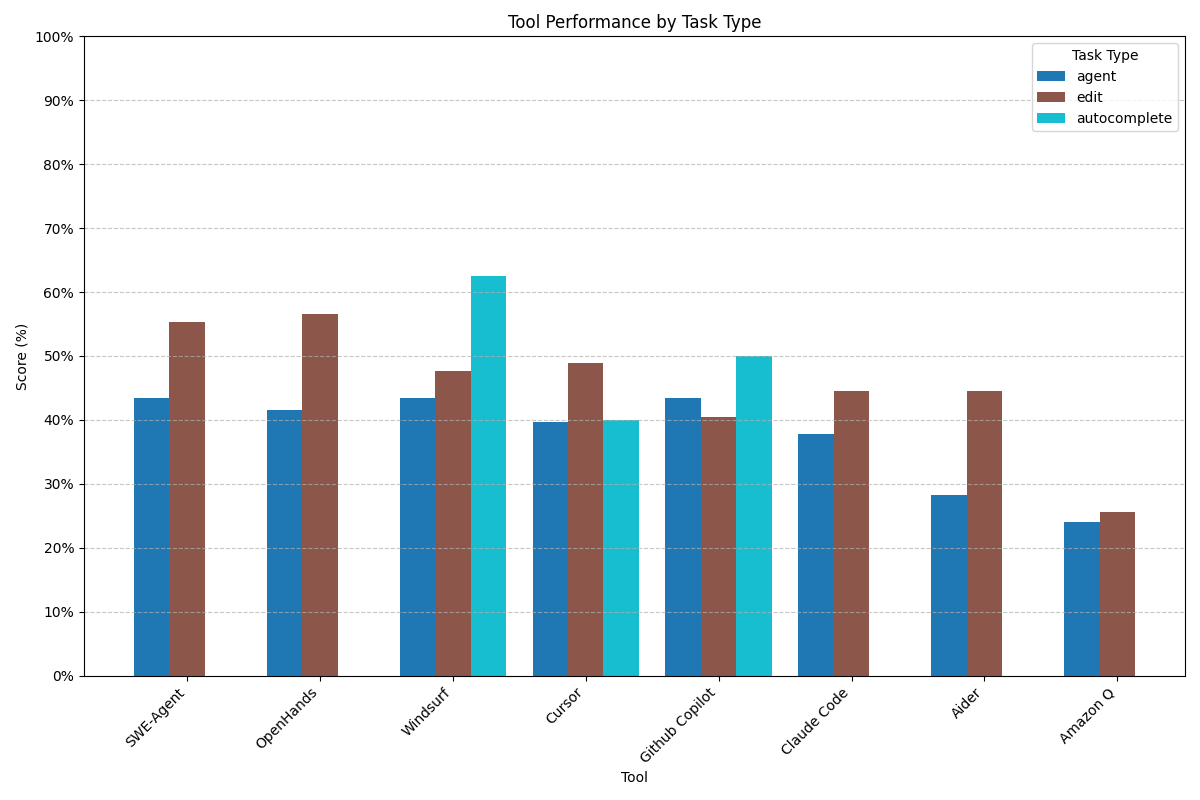
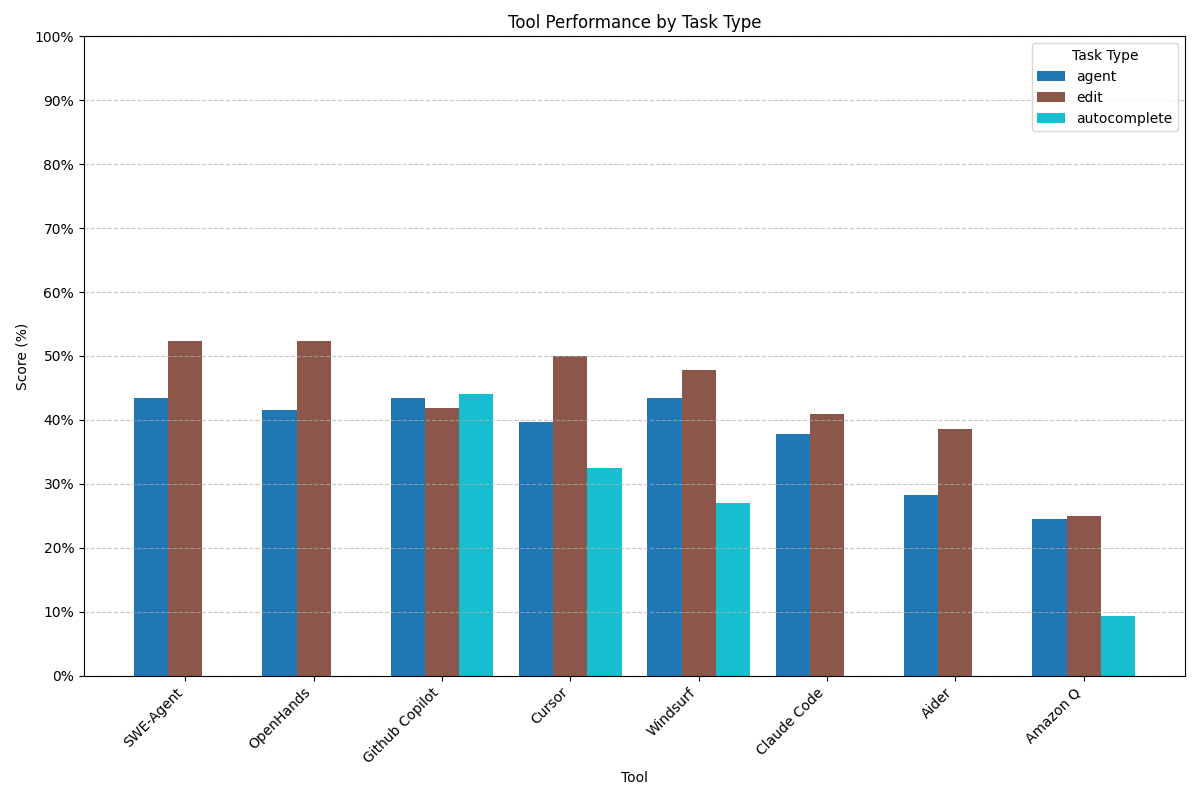
updates

diff --git a/src/pages/Leaderboard.tsx b/src/pages/Leaderboard.tsx
@@ -1,6 +1,6 @@
-import agentCsvData from '../assets/agent.csv?raw';
-import editCsvData from '../assets/edit.csv?raw';
-import autocompleteCsvData from '../assets/autocomplete.csv?raw';
+import agentCsvData from '../assets/agent_results.csv?raw';
+import editCsvData from '../assets/edit_results.csv?raw';
+import autocompleteCsvData from '../assets/autocomplete_results.csv?raw';
 import LeaderboardTable from '../components/LeaderboardTable';
 import { useState } from 'react';
 

diff --git a/src/assets/Report.md b/src/assets/Report.md
@@ -106,7 +106,7 @@ While the underlying LM may remain the same, many frameworks have emerged for de
 
 </figure>
 
-[Table 1](#ai-coding-assistants) shows a sample of popular AI coding assistants and highlights which features each provides as well as its mode of operation (IDE or command-line interface (CLI)). In general, command-line tools offer only fully agentic modes, while IDE-integration enables code autocomplete. More limited editing modes tend to be a stepping-stone to the development of fully agentic modes; for instance popular applications such as Cursor and Windsurf, which first developed the RAG-enabled edit modes, now default to their fully agentic modes. Because of this, and to ensure fairness when comparing to pure agent tools, we opted to use agent modes for evaluation of the targeted edits task.
+[Table 1](#ai-coding-assistants) shows a sample of popular AI coding assistants and highlights which features each provides as well as its mode of operation (Integrated development environment (IDE) or command-line interface (CLI)). In general, command-line tools offer only fully agentic modes, while IDE-integration enables code autocomplete. More limited editing modes tend to be a stepping-stone to the development of fully agentic modes; for instance popular applications such as Cursor and Windsurf, which first developed the RAG-enabled edit modes, now default to their fully agentic modes. Because of this, and to ensure fairness when comparing to pure agent tools, we opted to use agent modes for evaluation of the targeted edits task.
 ## AI Benchmarking
 A variety of evaluations have been developed to evaluate language models both on general-purpose capabilities and specifically on code generation ability. Benchmarks exist to evaluate LMs on reasoning, language understanding, math skills, and instruction following using diverse sets of tasks. For AI agents specifically, benchmarks have been developed to evaluate tool use capabilities and computer control.
 More specific benchmarks also exist for LM code generation. [HumanEval](https://arxiv.org/abs/2107.03374) and [LiveCodeBench](https://arxiv.org/abs/2403.07974) have become standard evaluations for isolated code generation tasks. [Aider's polyglot benchmark](https://aider.chat/docs/leaderboards/) evaluates code-writing ability in multiple programming languages. SWE-Bench is the current standard evaluation for code writing in large, real-world repositories using agentic functionality. However, no existing benchmark evaluates AI coding assistants at varying levels of developing involvement in a variety of language and framework environments. In addition, no major benchmarks exist for AI autocomplete tools. LiveSWEBench therefore greatly extends the scope of evaluation compared to existing benchmarks and provides a more comprehensive view of agents' capabilities.
@@ -358,18 +358,31 @@ In some cases, autocomplete models get stuck in loops of generating the same sug
 ### Tool Notes
 Tools were generally setup and evaluated using default settings, with "agent" mode selected in chat where appropriate. Aside from Amazon Q, which does not allow users to choose the model to be used, all tools were evaluated with Claude 3.7 Sonnet as the LM backend. This consistency ensures that LiveSWEBench is a valid evaluation of the actual agentic scaffolding, rather than the underlying LM itself. The model was selected as the highest-performing model with broad support among agent tools.
 
-Github Copilot was evaluated using a pre-release build in Visual Studio Code - Insiders, to enable the agent functionality.
+Github Copilot was evaluated using a pre-release build in Visual Studio Code - Insiders, to enable the agent functionality. The autocomplete model was left as the default; in the future, we may re-evaluate this task using the newer GPT-4O autocomplete preview.
 
 Agent and edit task patches were collected for all tools as of March 14th, 2025. Autocomplete evaluation was performed during the week of March 17th, 2025.
 # Results and Discussion
 <figure id="full_results_graph" className="flex flex-col items-center m-0 w-full">
-<img src="/full_graph.png" alt="Resolution scores by tool and task type" width="100%" height="100%" className="object-contain lg:w-1/2 xxl:w-1/3"/>
-<figcaption>Figure 1: A graph of resolution scores for each evaluated tool, split among the three task types</figcaption>
+	<img src="/full_graph.png" alt="Resolution scores by tool and task type" width="100%" height="100%" className="object-contain lg:w-1/2 xxl:w-1/3"/>
+	<figcaption>Figure 1: A graph of resolution scores for each evaluated tool, split among the three task types</figcaption>
 </figure>
+<div id="results_container" className="flex flex-col lg:flex-row gap-3 justify-center items-center w-full">
+<figure id="score_by_repo" className="flex flex-col items-center m-0 w-full">
+	<img src="/radar.png" alt="Task resolution rates by repository" width="100%" height="100%" className="object-contain"/>
+	<figcaption>Figure 2: A radar chart of task resolution rates by repository. Task types are overlaid on top of each other.</figcaption>
+</figure>
+</div>
 
-[Figure 1](#full_results_graph) shows task resolution rates for each evaluated tool, split among the three task types. We see that the top several scores on the agent task are quite similar, within a few percent of each other. The edit task is almost universally easier. Finally, the autocomplete task is even easier still, for the tools with autocomplete capabilities. This gradient is unsurprising, as the edit and autocomplete tasks are much more constrained in scope than the agent task, with detailed, direct prompts of what must be done to resolve the issue and changes made only to a single file or lines of code at a time. Overall, we can conclude that SWE-Agent and OpenHands are currently the most capable agent frameworks, with Windsurf and Cursor not far behind.
+[Figure 1](#full_results_graph) shows task resolution rates for each evaluated tool, split among the three task types. We see that the top several scores on the agent task are quite similar, within a few percent of each other. The edit task is almost universally easier. This gradient is unsurprising, as the edit task is much more constrained in scope than the agent task, with detailed, direct prompts of what must be done to resolve the issue and changes made only to a single file or lines of code at a time. Overall, we can conclude that SWE-Agent and OpenHands are currently the most capable agent frameworks, with Windsurf and Cursor not far behind. Aider has the worst performance on the agent task of all tools evaluated with Claude 3.7 Sonnet as the model, but makes up partially for this with its edit task performance. Amazon Q lags behind all other tools, which may in large part be due to its underlying model being less capable.
 
-What is interesting is the fact that the degree of improvement between the agent and edit tasks is not consistent among the tools. While the top six agent scores are within a few percent of each other, the edit task results had greater variance. The general equality among assistants for the agent task is likely attributable to the same model being used and (in general) the same tools being provided as part of the agent framework, e.g. read file, edit file, search directory, run bash command. When given complete autonomy and a detailed, high-level description of the task, it seems the raw model intelligence may be the most important factor. Since the agent task provides no hints as to where changes need to be made, exploration of the codebase is also a given. The edit task's specification of the file to be edited may appear to make this task much easier, but the changes needed may still depend on context from other files. It's likely that the agents who saw less improvement between the agent and edit tasks were less likely to still explore the codebase when prompted with the specific edit file; in contrast, Aider, which always automatically explores to generate a repository map at the beginning of execution, saw the greatest improvement of all between the agent and edit tasks. The edit task also does not directly inform the agent of recent changes made to the codebase as part of the partially applied PR. Future work could investigate the impact of the context and information directly provided as part of the edit task prompt.
+[Figure 2](#score_by_repo) provides a more detailed view of task performance by repository. We can see that Aider's deficiency on the agent task comes in large part from its performance on the json repository. This repository features very large files, which it seems Aider has difficulty handling; the patches generated by Aider for this repository often only contained modifications to irrelevant files. Amazon Q also struggled greatly with this repository. Overall, we find that Github Copilot, SWE-Agent, and OpenHands had the most consistent performance across all repositories. [Figure 2](#score_by_repo) also reveals the general bias in scores towards the Python repositories (torchtune and wagtail).
 
-# Future Work
+It is interesting to analyze the degree of improvement between the agent and edit tasks is not consistent among the tools. While the top six agent scores are within a few percent of each other, the edit task results had greater variance. The general equality among assistants for the agent task is likely attributable to the same model being used and (in general) the same tools being provided as part of the agent framework, e.g. read file, edit file, search directory, run bash command. When given complete autonomy and a detailed, high-level description of the task, it seems the raw model intelligence may be the most important factor. Since the agent task provides no hints as to where changes need to be made, exploration of the codebase is also a given. The edit task's specification of the file to be edited may appear to make this task much easier, but the changes needed may still depend on context from other files. It's likely that the agents who saw less improvement between the agent and edit tasks were less likely to still explore the codebase when prompted with the specific edit file; in contrast, Aider, which always automatically explores to generate a repository map at the beginning of execution, saw the greatest improvement of all between the agent and edit tasks. The edit task also does not directly inform the agent of recent changes made to the codebase as part of the partially applied PR. Future work could investigate the impact of the context and information directly provided as part of the edit task prompt. Overall, we see that only Aider and OpenHands had universally improved performance between the agent and edit tasks, though other agents tended to only perform worse in one repository for the edit task.
+
+The autocomplete task proved more difficult than expected. Most likely, this difficulty comes from the generally lower intelligence capacity of autocomplete models, as they are much more optimized for speed of generations. We found that the largest challenge for the autocomplete task was knowing when to stop; in many cases, the first few suggestions from the model would constitute a complete and correct solution, but the model would go on to suggest additional breaking code that would result in task failure.
+
+Our autocomplete evaluation is purely an evaluation of the underlying model used. The task format does not engage with certain additional features often included as part of autocomplete functionality, such as next edit prediction, where a tool may save time by predicting future edits in other parts of the same file. The constrained nature of this autocomplete task means its results are not a fully representative view of the average developer experience of using these tools. A survey measuring actual keystroke reduction as developers complete tasks using different autocomplete tools could be an illuminating additional view of the state of AI autocomplete.
+
+# Limitations and Future Work
+
 The goal of LiveSWEBench is to remain at the forefront of agent development by integrating new tasks and improving evaluation methods over time. Most urgently, we plan to rework our inference and evaluation harnesses to better make use of containerization to ensure consistent evaluations. We also plan to re-evaluate agents in environments where dependencies are already installed to evaluate agents' ability to test their code prior to submission. Finally, we wish to expand LiveSWEBench to encompass additional task types, such as greenfield project setup and frontend code generation based on design screenshots.
